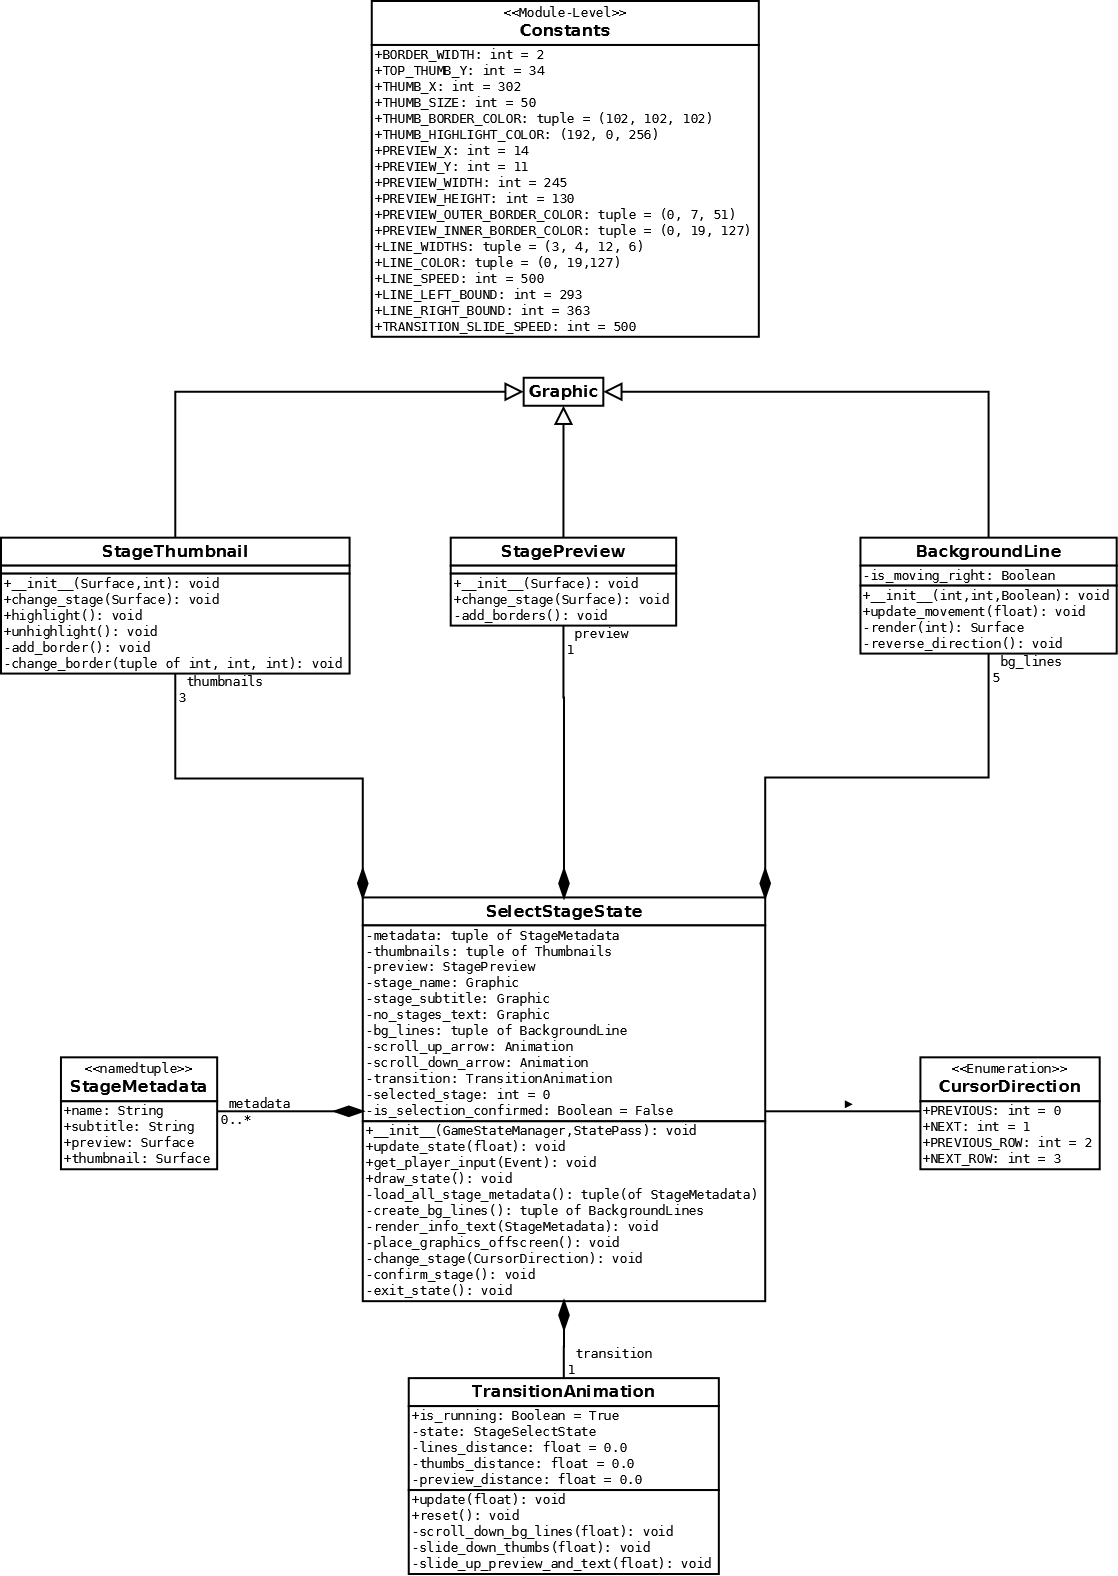
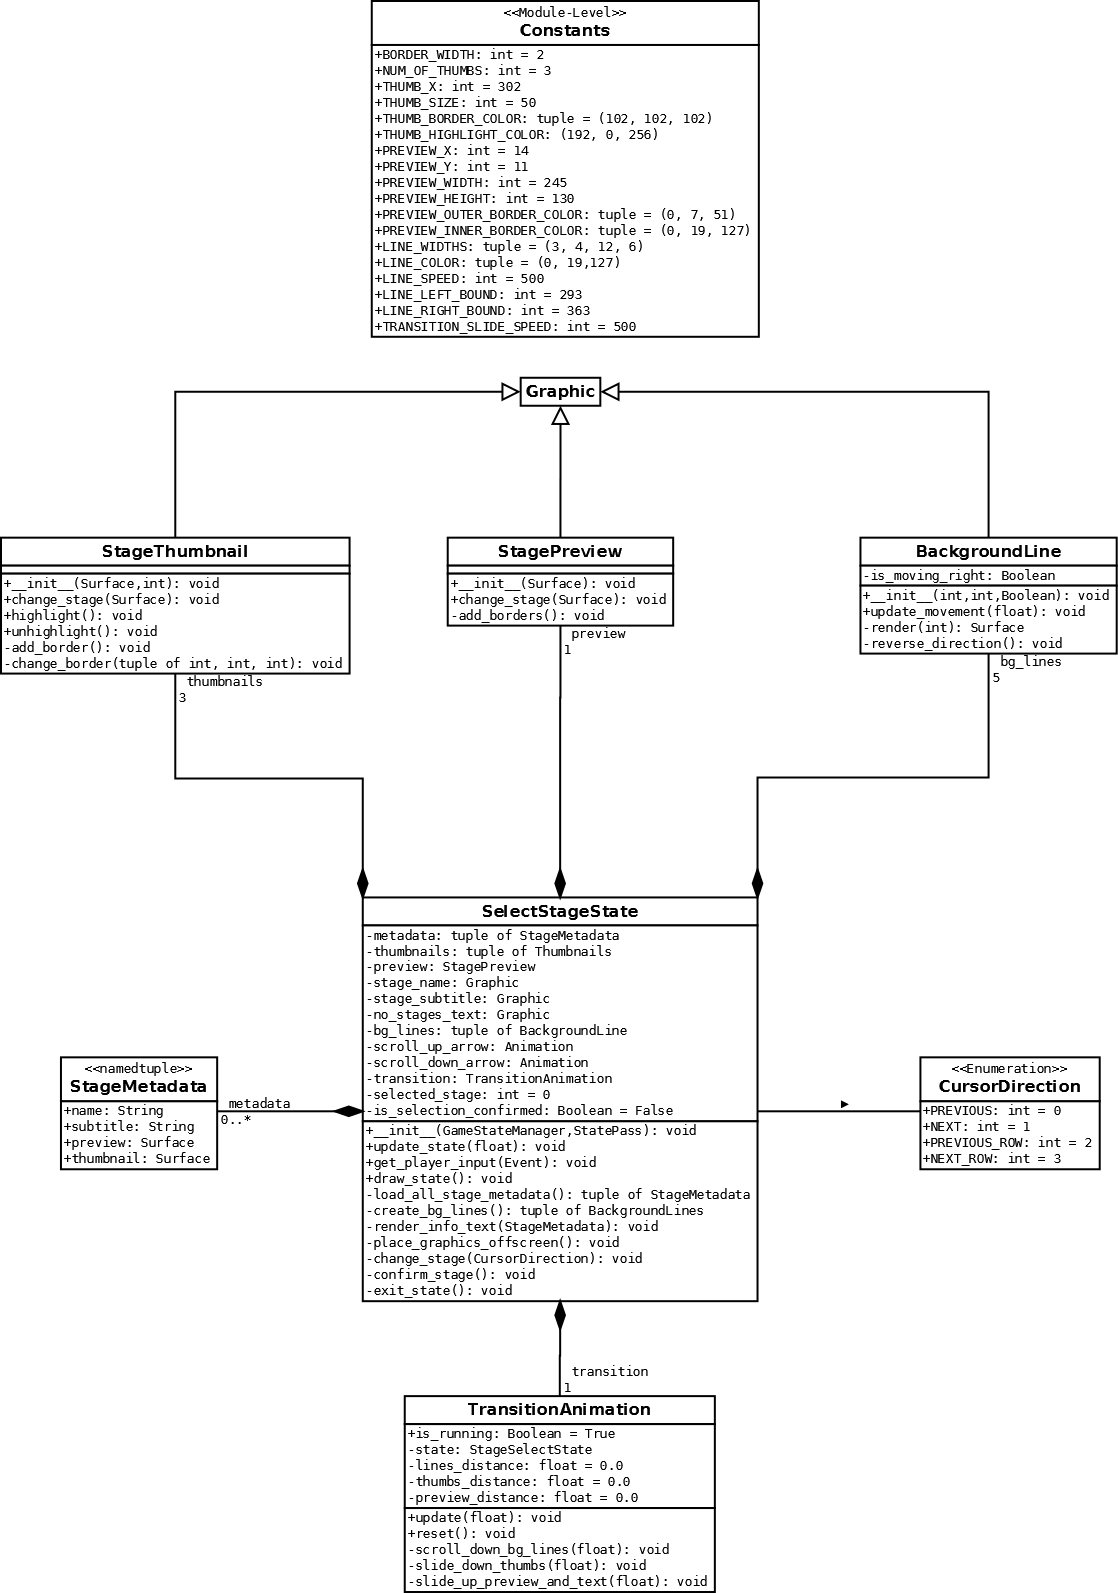
Remove TOP_THUMB_Y and add NUM_OF_THUMBS
The Thumbnails on the Stage Select Screen will automatically be
centered based on the NUM_OF_THUMBS. As such, a static y-position
(i.e. TOP_THUMB_Y) is no longer needed.

diff --git a/lib/game_states/stage_select_state.py b/lib/game_states/stage_select_state.py
@@ -4,8 +4,8 @@ components.
 Module Constants:
     BORDER_WIDTH (int): The thickness, in pixels, of the borders of
         the stage preview as well as each stage thumbnail.
-    TOP_THUMB_Y (int): The y-position of the top-most thumbnail
-        on-screen.
+    NUM_OF_THUMBS (int): The number of Stage Thumbnails shown on the
+        screen at once.
     THUMB_X (int): The shared x-position of all thumbnails on-screen.
     THUMB_SIZE (int): The width and height, in pixels, of each thumbnail
         image.
